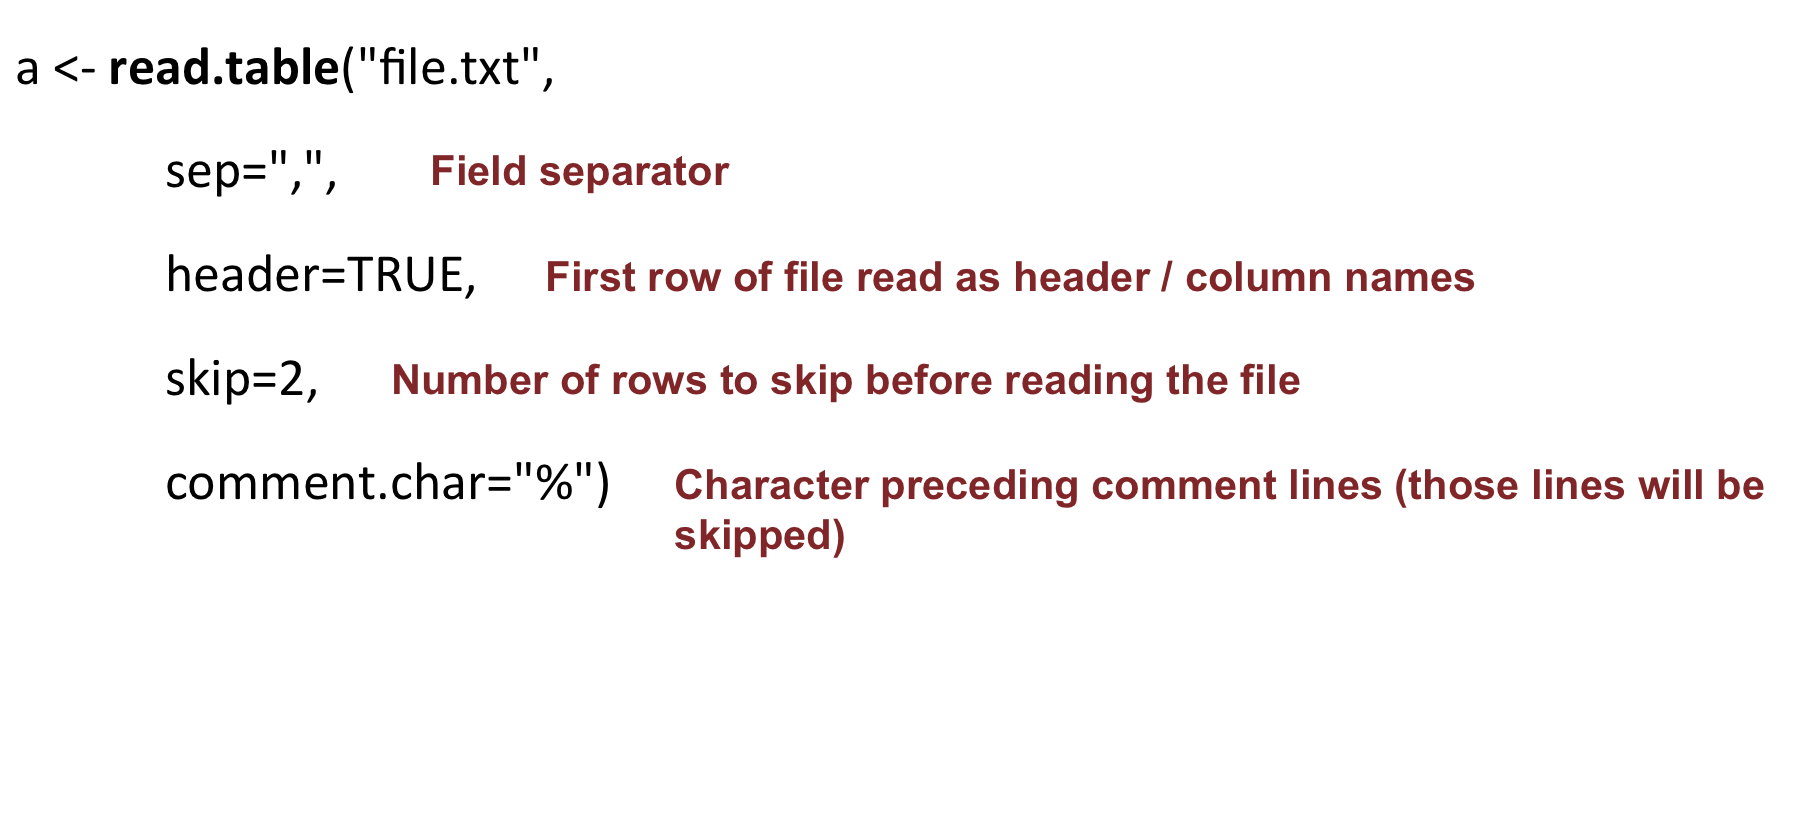
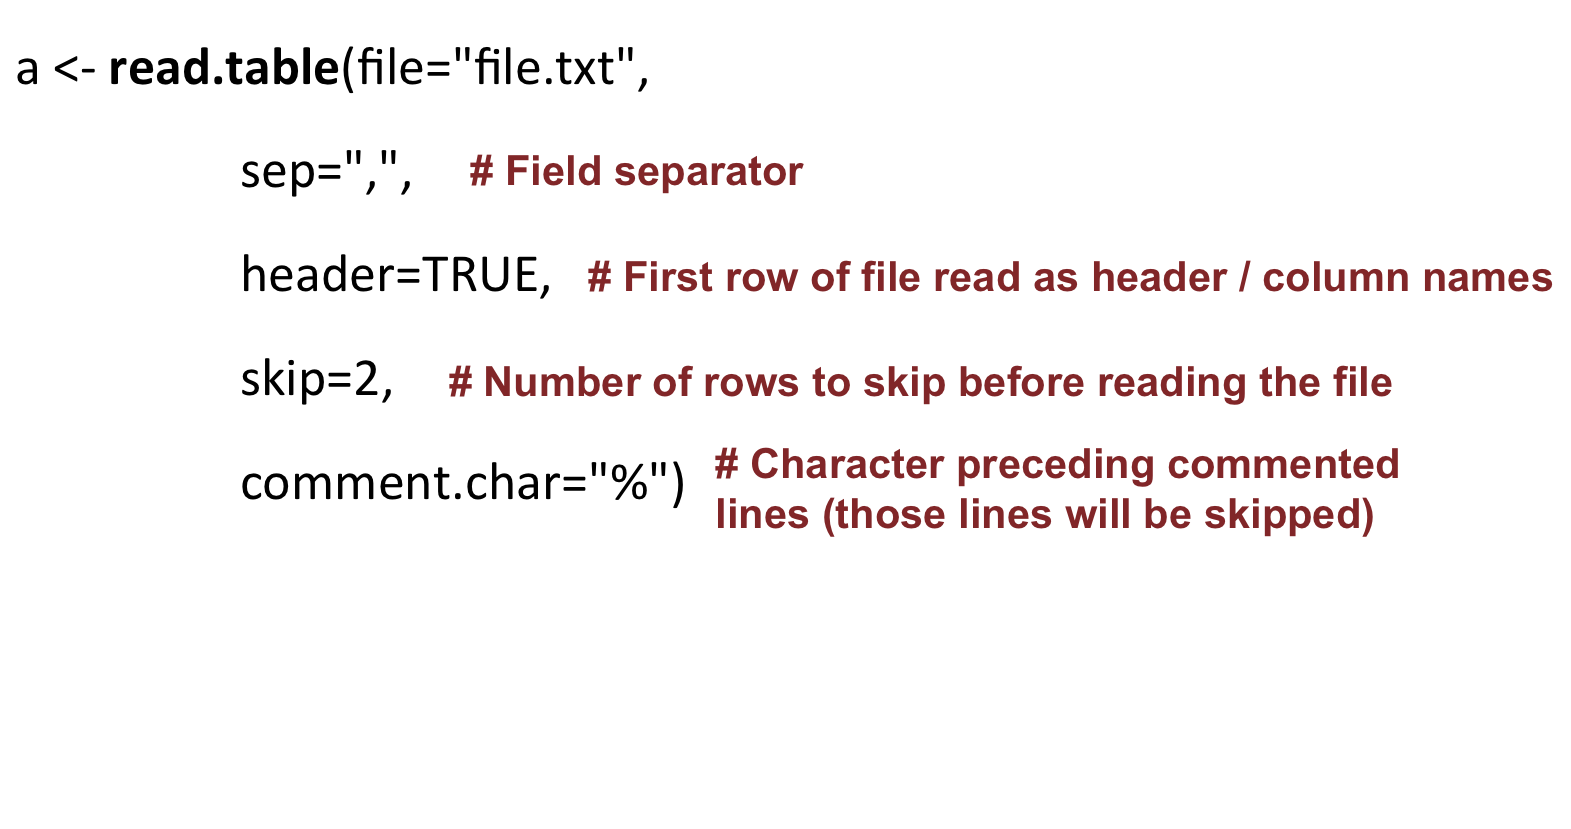
links to exercises

diff --git a/README.md b/README.md
@@ -29,16 +29,24 @@ from the CRG [Bioinformatics core facility](https://biocore.crg.eu/) (office 460
 * [R basics](https://sbcrg.github.io/CRG_RIntroduction/Rbasics)
 * [Functions (usage of)](https://sbcrg.github.io/CRG_RIntroduction/functionsbasics)
 * [R scripts](https://sbcrg.github.io/CRG_RIntroduction/Rscripts)
+	+ [Exercise 1: R basics](https://sbcrg.github.io/CRG_RIntroduction/exercise1)
 * [Data types](https://sbcrg.github.io/CRG_RIntroduction/datatype)
 * [Data structures](https://sbcrg.github.io/CRG_RIntroduction/datastructure)
   + [Vector](https://sbcrg.github.io/CRG_RIntroduction/vector)
+	+ [Exercise 2: Numeric vectors](https://sbcrg.github.io/CRG_RIntroduction/exercise2)
+	+ [Exercise 3: Character vectors](https://sbcrg.github.io/CRG_RIntroduction/exercise3)
   + [Factor](https://sbcrg.github.io/CRG_RIntroduction/factor)
   + [Matrix](https://sbcrg.github.io/CRG_RIntroduction/matrix)
   + [Data frame](https://sbcrg.github.io/CRG_RIntroduction/dataframe)
   + [2D structure manipulation](https://sbcrg.github.io/CRG_RIntroduction/2d_manip)
+        + [Exercise 4: Matrices](https://sbcrg.github.io/CRG_RIntroduction/exercise4)
+        + [Exercise 5: Data frames](https://sbcrg.github.io/CRG_RIntroduction/exercise5)
 <h3>Module 2</h3>
+* [Missing values](https://sbcrg.github.io/CRG_RIntroduction/na)
 * [Input / Output](https://sbcrg.github.io/CRG_RIntroduction/inout)
+        + [Exercise 6: Input / Output](https://sbcrg.github.io/CRG_RIntroduction/exercise6)
 * [Library and packages](https://sbcrg.github.io/CRG_RIntroduction/libpackages)
+        + [Exercise 7: Packages](https://sbcrg.github.io/CRG_RIntroduction/exercise7)
 * [Regular expressions (Regex)](https://sbcrg.github.io/CRG_RIntroduction/regex)
 
 <h3>Module 3</h3>

diff --git a/inout.md b/inout.md
@@ -10,16 +10,17 @@ We will learn how to:
 * Read a file into a vector with the **scan** function
 
 ```{r}
-scan("file.txt")
+scan(file="file.txt")
 ```
 
 By default, scans "double" (numeric) elements: it fails if the input contains characters. Specify the type of data contained in the file: 
 
 ```{r}
 # specify the type of data to scan
-scan("file.txt", what="character")
+scan(file="file.txt", 
+	what="character")
 # you can provide the full path; if the file is located, for example, in the home directory:
-scan("~/file.txt", )
+scan(file="~/file.txt", )
 ``` 
 
 * Write the content of a vector in a file:
@@ -28,12 +29,13 @@ scan("~/file.txt", )
 # create a vector
 mygenes <- c("SMAD4", "DKK1", "ASXL3", "ERG", "CKLF", "TIAM1", "VHL", "BTD", "EMP1", "MALL", "PAX3")
 # write in a file
-write(mygenes, file="gene_list.txt")
+write(x=mygenes, 
+	file="gene_list.txt")
 ```
 
 <h3>On data frame</h3>
 
-* Read a file into a data frame with the **read.table** function:
+* Read in a file into a data frame with the **read.table** function:
 
 ```{r}
 a <- read.table(file="file.txt")
@@ -42,6 +44,18 @@ a <- read.table(file="file.txt")
 Useful arguments:
 
 <a href="https://sbcrg.github.io/CRG_RIntroduction/images/readtable.png"><img src="images/readtable.png" width="600/"></a>
+
+* Write a data frame or matrix to a file:
+
+```{r}
+write.table(x=a,
+	file="file.txt")
+```
+
+Useful arguments:
+
+<a href="https://sbcrg.github.io/CRG_RIntroduction/images/readtable.png"><img src="images/writetable.png" width="600/"></a>
+
 
 > Go to [Exercise 6](https://sbcrg.github.io/CRG_RIntroduction/exercise6): Input and Output !
 <br>

diff --git a/libpackages.md b/libpackages.md
@@ -53,12 +53,19 @@ install.packages("ggplot2")
 ```
 
 * Install a bioconductor package:
-
-``{r}
+	+ From R version >= 3.5.0
+```{r}
 # Install Bioconductor package manager
 install.packages("BiocManager")
 # Install Bioconductor package
 BiocManager::install("DESeq2")
+```
+	+ From older R versions
+```{r}
+# Source (=load into environment) script containing biocLite function
+source("http://www.bioconductor.org/biocLite.R")
+# Use biocLite function to install Bioconductor package
+biocLite("DESeq2")
 ```
 
 <h3>Load a package</h3>

diff --git a/exercise5.md b/exercise5.md
@@ -370,7 +370,7 @@ diff_genes <- df_genes[df_genes$pvalue_KOvsWT < 0.05 &
 
 How many rows (genes) were selected?
 
-> Go to [Input/Output](https://sbcrg.github.io/CRG_RIntroduction/inout).
+> Go to [Missing values](https://sbcrg.github.io/CRG_RIntroduction/na).
 
 <br>
 > [back to home page](https://sbcrg.github.io/CRG_RIntroduction)
